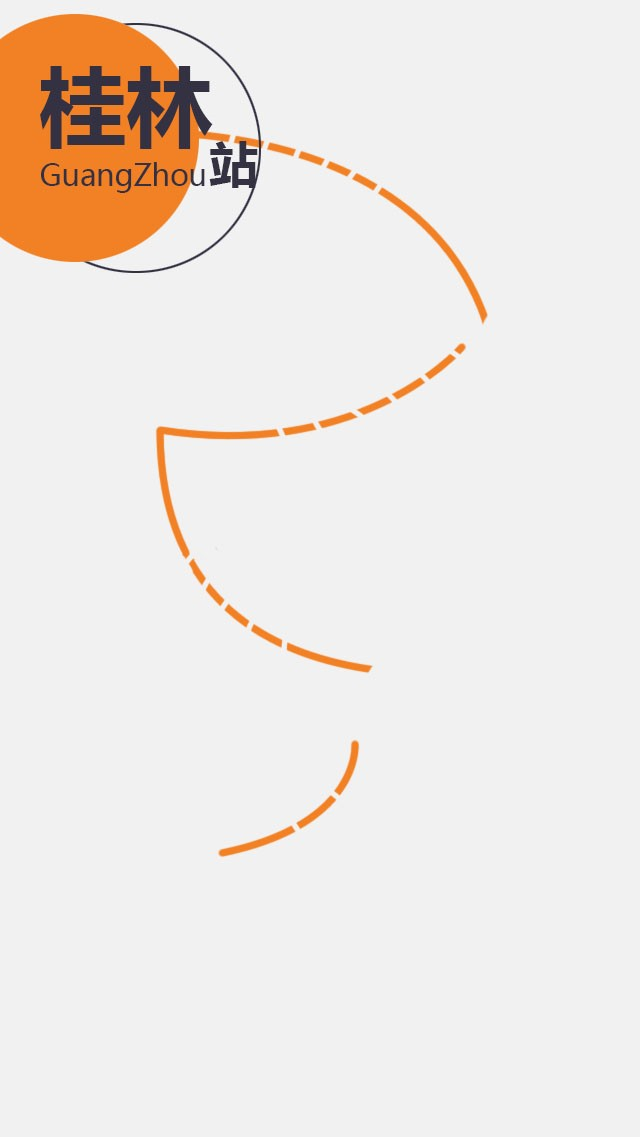
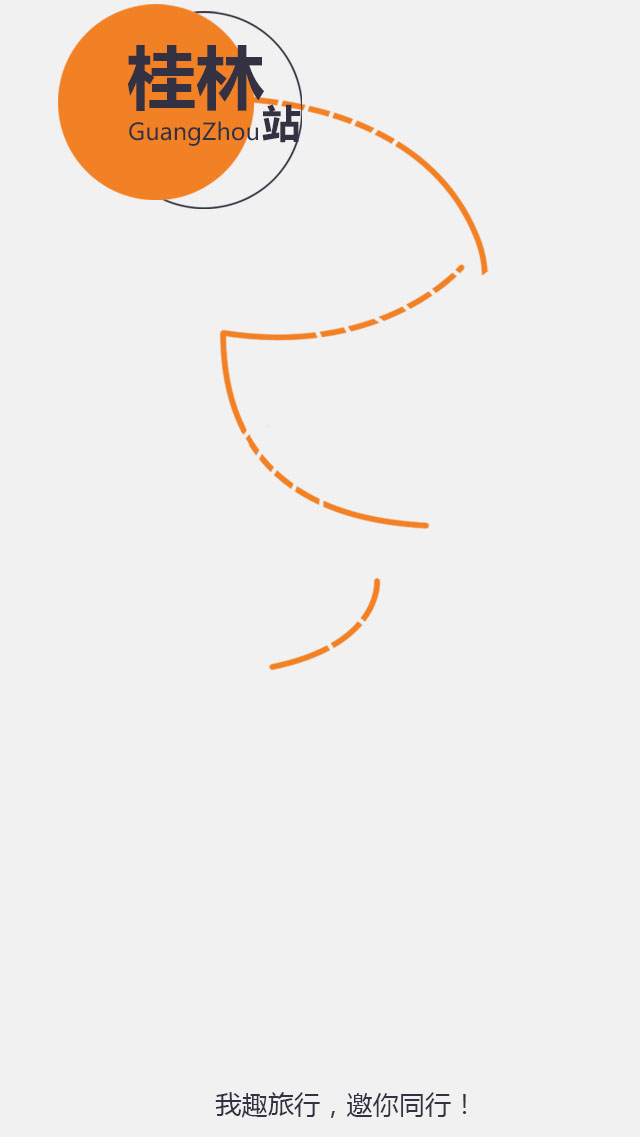
m

diff --git a/index.html b/index.html
@@ -134,16 +134,16 @@
 				</section>
 				<section class="page" id="page10">
 					<img class="gz_campus" src="img/10/bg.jpg">
-					<img class="zd" src="img/10/zd.png" style="top: 28.06%;right: 3.44%;">
-					<img class="hg" src="img/10/hg.png" style="top: 46.36%;left: 3.44%;">
-					<img class="gg" src="img/10/gg.png" style="top: 62.24%;right: 15.47%;">
+					<img class="zd" src="img/10/zd.png">
+					<img class="hg" src="img/10/hg.png">
+					<img class="gg" src="img/10/gg.png">
 				</section>
 				<section class="page" id="page11">
 					<img class="gl_campus" src="img/11/bg.jpg">
-					<img class="gldz" src="img/11/gldz.png" style="top: 10.03%;right: 3.44%;">
-					<img class="gllg" src="img/11/gllg.png" style="top: 26.12%;left: 9.69%;">
-					<img class="glly" src="img/11/glly.png" style="top: 47.93%;right: 15.47%;">
-					<img class="glsf" src="img/11/glsf.png" style="top: 61.3%;left: 3.44%;">
+					<img class="gldz" src="img/11/gldz.png">
+					<img class="gllg" src="img/11/gllg.png">
+					<img class="glly" src="img/11/glly.png">
+					<img class="glsf" src="img/11/glsf.png">
 				</section>
 			</div>
 		</div>

diff --git a/css/campus.css b/css/campus.css
@@ -50,6 +50,6 @@
 
 #page10, #page11 {background-color: #f1f1f1;}
 .gz_campus, .gl_campus {width: 100%;}
-.zd, .hg, .gg, .gldz, .gllg, .glly, .glsf {position: absolute;width: 38.75%;}
+.zd, .hg, .gg, .gldz, .gllg, .glly, .glsf {position: absolute;width: 100%;left: 0;top: 0;}
 
 
